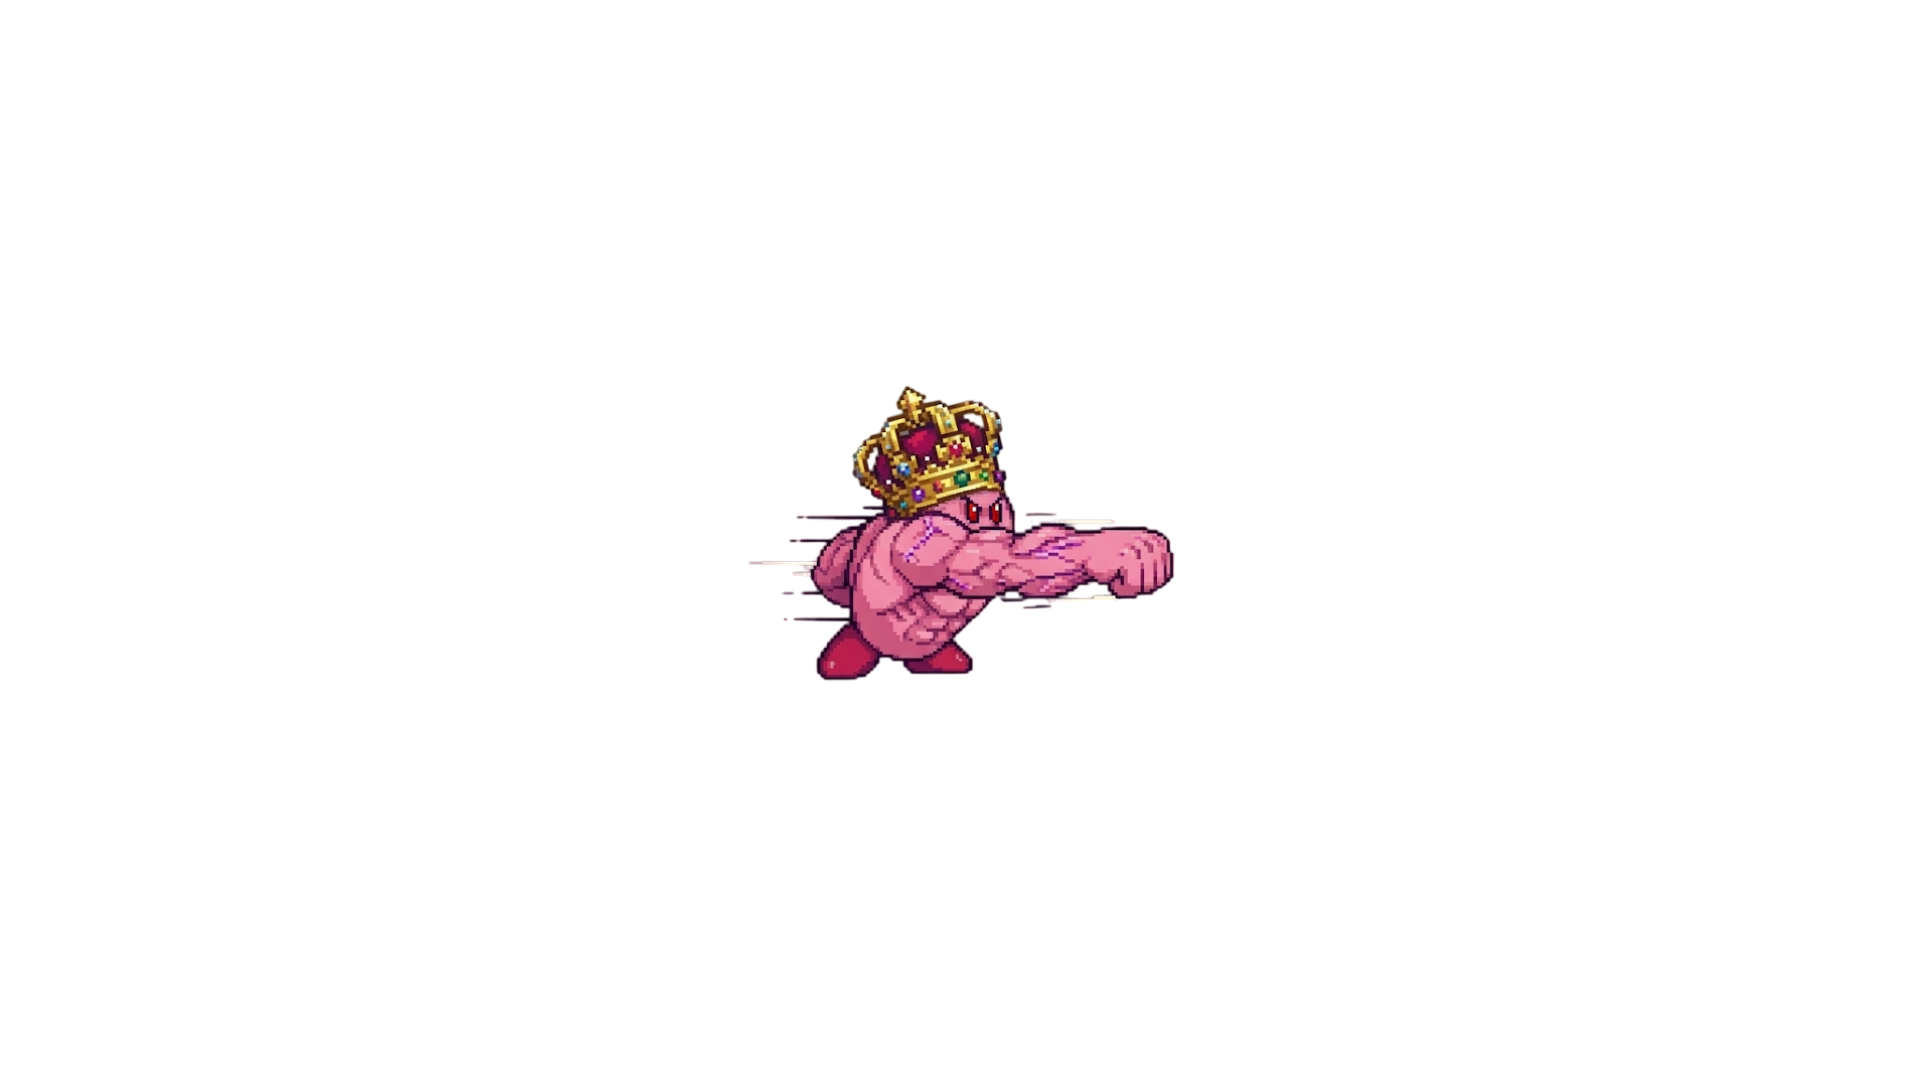
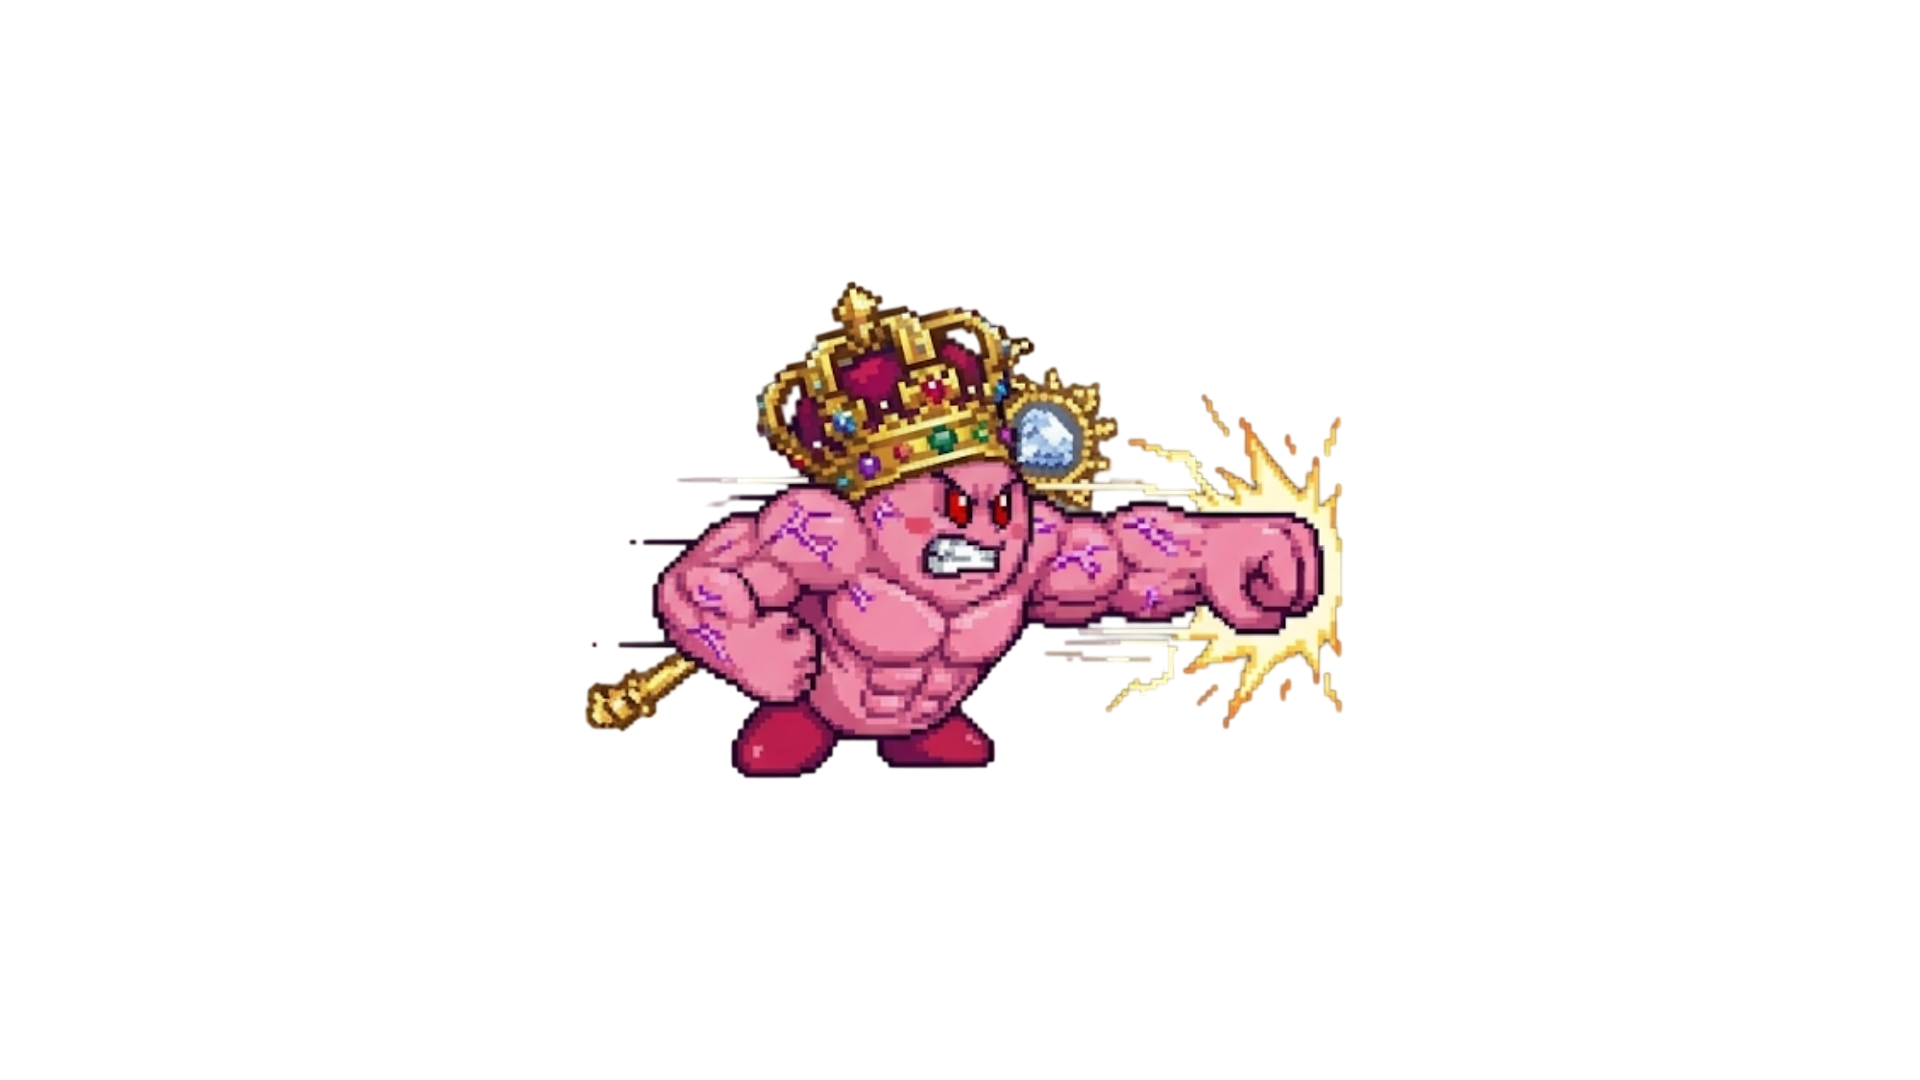
animate boss vexthorn and fix the card scanning feature before the second round

Changed region(s): [[0.2812, 0.2444, 0.7188, 0.7333]]

diff --git a/src/main/java/com/kirbken/models/CharacterAnimationRegistry.java b/src/main/java/com/kirbken/models/CharacterAnimationRegistry.java
@@ -43,10 +43,10 @@ public class CharacterAnimationRegistry {
             "/images/boss.png",
             new String[]{"/images/boss_kirby/run.png"},
             "/images/boss_kirby/punch.png",
-            "/images/boss_kirby/special_punch.png",
+            "/images/boss_kirby/special_start.png",
             null,
             "/images/boss_kirby/special_punch.png",
-            null
+            null // add like blaze image or smth
         ));
 
         REGISTRY.put("kirby_storm", new AnimationSet(
@@ -87,6 +87,16 @@ public class CharacterAnimationRegistry {
             "/images/vexthorn/roar.png",
             "/images/vexthorn/roar.png",
             "/images/vexthorn/fireball.png"
+        ));
+
+        REGISTRY.put("vexthorn_boss", new AnimationSet(
+            "/images/vexthorn_boss.png",
+            new String[]{"/images/vexthorn_boss.png"}, // add an actual walking photo
+            "/images/boss_vexthorn/punch.png",
+            "/images/boss_vexthorn/steady.png",
+            "/images/boss_vexthorn/special1.png",
+            "/images/boss_vexthorn/special2.png",
+            "/images/boss_vexthorn/fireball.png"
         ));
     }
 

diff --git a/src/main/java/com/kirbken/controllers/RoundTransitionController.java b/src/main/java/com/kirbken/controllers/RoundTransitionController.java
@@ -15,6 +15,7 @@ public class RoundTransitionController implements FxController {
     @FXML
     private void onScanNewCard() {
         GameState.advanceToNextRound();
+        GameState.unlockForNewRound();
         manager.goToCardScan();
     }
 

diff --git a/src/main/java/com/kirbken/GameState.java b/src/main/java/com/kirbken/GameState.java
@@ -34,4 +34,8 @@ public class GameState {
     public static void resetRounds() {
         currentRound = 1;
     }
+
+    public static void unlockForNewRound() {
+        characterLocked = false;
+    }
 }
